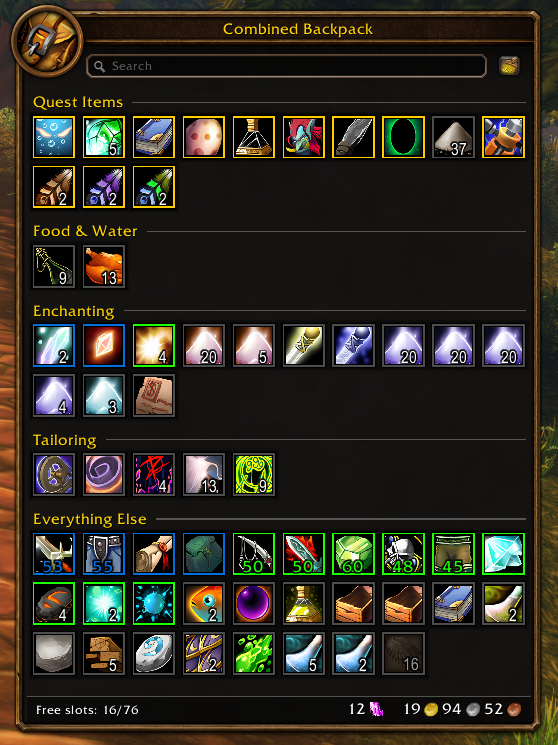
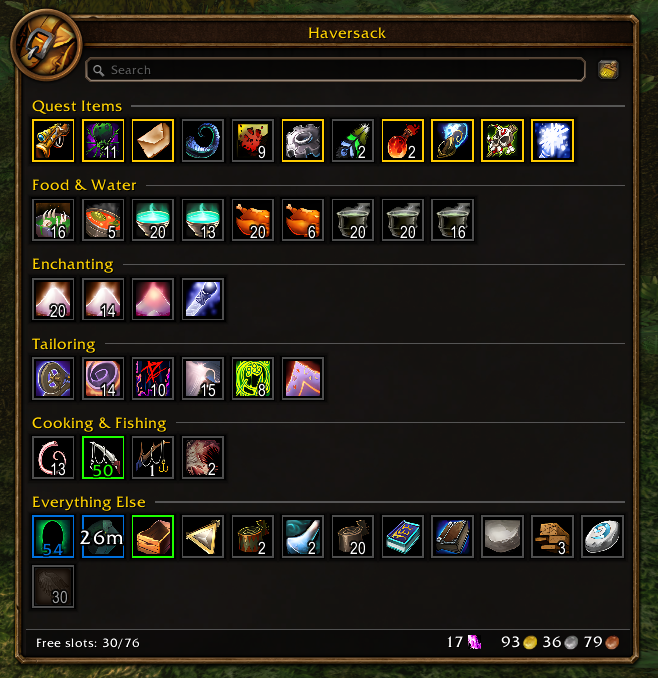
Update screenshots: Haversack title, options page

diff --git a/README.md b/README.md
@@ -2,7 +2,7 @@
 
 **WoW: Forever addon:** all your bags in one small window, sorted into a few categories.
 
-![Haversack in game: quest items, food and water, enchanting and tailoring materials, and everything else sorted by rarity, in square slots with rarity frames; free slots, Soul Shards and gold at the bottom](art/screenshot.png)
+![Haversack window in game: quest items, food and water, enchanting, tailoring, cooking and fishing, and everything else sorted by rarity, in square slots with rarity frames; free slots, Soul Shards and gold at the bottom](art/screenshot.png)
 
 - One window for all your bags, the soul bag included.
 - Only a few categories: **Quest Items**, **Food & Water**, one for **each main
@@ -23,6 +23,8 @@
   the height follows your bags.
 - A clean, dark window that fits the game's own UI.
 - English and German.
+
+![Haversack options page: Cooking and Fishing checkbox, and Window size sliders for slots per row and slot size](art/options.png)
 
 ## Install
 
